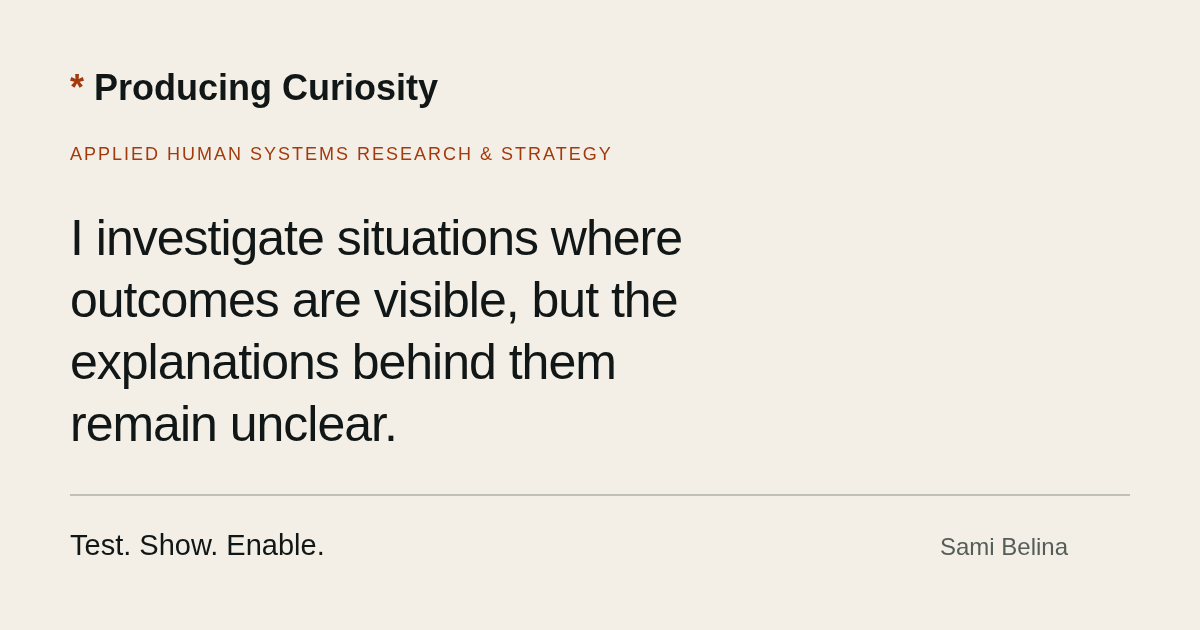
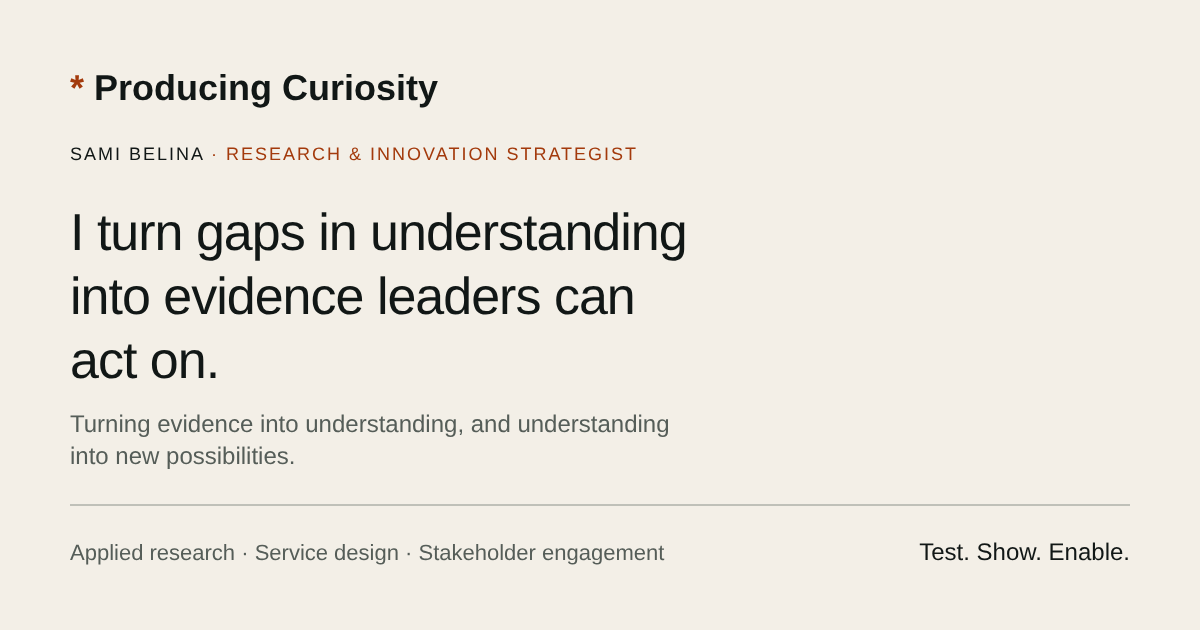
SEO: Person structured data, current social preview, shorter description
- Homepage JSON-LD becomes a graph: WebSite (author and publisher) plus
  a Person for Sami Belina with jobTitle "Research & Innovation
  Strategist", sameAs LinkedIn and knowsAbout the LinkedIn specialties
  plus research strategy, organizational effectiveness, innovation
  strategy and human systems research. No email or employer.
- Social preview (1200 × 630) redrawn with the current positioning:
  name and identity, the H1, the LinkedIn tagline and specialties,
  Test. Show. Enable. Alt text matches.
- Home description shortened from 180 to 148 characters so search
  results show it whole; a test keeps it within 155.
- Page audit: unique titles, one H1 per page, canonical on indexable
  pages, sitemap unchanged (four public pages); experiments and the
  empty collection remain noindex by design.
- docs/codex/SEO-SEM-AUDIT.md records the live check, the changes, and
  the owner's account steps (Search Console sitemap and indexing, Bing
  import, LinkedIn Post Inspector, optional Crawler Hints). SEM remains
  a proposed brief: no campaigns, spend or tracking.

Verified: build (85 files audited); check:deploy; npm test 779 passed /
0 failed / 11 skipped in Chromium, WebKit, Firefox and iPhone-emulated
WebKit.

Claude-Session: https://claude.ai/code/session_01NYEdYjHJJXk5SrJAuyr7gg

diff --git a/scripts/seo.ts b/scripts/seo.ts
@@ -1,10 +1,23 @@
 import { publicPath, publicBase } from '../src/public-path'
+import { practiceAreas, professionalIdentity, recruiterContact, tagline } from '../src/content/recruiter'
 /** Build-only metadata for the same public documents visitors can read. */
 export const siteOrigin = 'https://producingcuriosity.com'
 export const siteName = 'Producing Curiosity'
 export const homeTitle = 'Sami Belina — Research & Innovation Strategist'
-export const homeDescription = 'Sami Belina, research and innovation strategist: applied research, service design and stakeholder engagement. Turning evidence into understanding, and understanding into new possibilities.'
-const imageAlt = 'Producing Curiosity by Sami Belina. Applied human systems research and strategy. Test. Show. Enable.'
+/** Kept under ~155 characters so search results show it whole. */
+export const homeDescription = 'Sami Belina, research and innovation strategist: applied research, service design and stakeholder engagement that turns evidence into understanding.'
+const imageAlt = 'Producing Curiosity by Sami Belina, Research & Innovation Strategist. I turn gaps in understanding into evidence leaders can act on. Test. Show. Enable.'
+const personId = `${siteOrigin}/#sami-belina`
+/**
+ * Who the site is about, for search engines: name, the LinkedIn identity, the profile it
+ * links to, and the areas of work. Only public, owner-supplied facts; no email address (spam)
+ * and no employer, which stays unnamed in public copy.
+ */
+export const personSchema = {
+  '@type': 'Person', '@id': personId, name: 'Sami Belina', url: `${siteOrigin}/`,
+  jobTitle: professionalIdentity, description: tagline, sameAs: [recruiterContact.linkedin],
+  knowsAbout: [...practiceAreas, 'Research strategy', 'Organizational effectiveness', 'Innovation strategy', 'Human systems research'],
+}
 export const escapeAttribute = (text: string) => text.replaceAll('&', '&amp;').replaceAll('"', '&quot;').replaceAll('<', '&lt;').replaceAll('>', '&gt;')
 
 export function seoHead({ title, description, route, indexable, website = false }: { title: string; description: string; route?: string; indexable: boolean; website?: boolean }) {
@@ -20,7 +33,10 @@ export function seoHead({ title, description, route, indexable, website = false 
     meta('twitter:card', 'summary_large_image'), meta('twitter:title', title), meta('twitter:description', description), meta('twitter:image', `${siteOrigin}/social-preview.png`), meta('twitter:image:alt', imageAlt),
   ]
   if (website) {
-    const json = JSON.stringify({ '@context': 'https://schema.org', '@type': 'WebSite', '@id': `${siteOrigin}/#website`, name: siteName, url: `${siteOrigin}/`, description: homeDescription }).replaceAll('<', '\\u003c')
+    const json = JSON.stringify({ '@context': 'https://schema.org', '@graph': [
+      { '@type': 'WebSite', '@id': `${siteOrigin}/#website`, name: siteName, url: `${siteOrigin}/`, description: homeDescription, inLanguage: 'en', author: { '@id': personId }, publisher: { '@id': personId } },
+      personSchema,
+    ] }).replaceAll('<', '\\u003c')
     head.push(`<script type="application/ld+json">${json}</script>`)
   }
   return head.join('\n')

diff --git a/tests/professional-alignment.spec.ts b/tests/professional-alignment.spec.ts
@@ -1,7 +1,7 @@
 import { expect, test } from '@playwright/test'
 import { readFile } from 'node:fs/promises'
 import archive from '../content/build-archive.json' with { type: 'json' }
-import { homeTitle, homeDescription } from '../scripts/seo'
+import { homeTitle, homeDescription, personSchema, siteOrigin } from '../scripts/seo'
 import { practiceAreas, professionalIdentity, recruiterContact, tagline } from '../src/content/recruiter'
 import { representativeSummaries } from '../src/content/primary-evidence'
 
@@ -15,7 +15,7 @@ test('identity is consistent across the homepage, title and description', async 
   expect(homeTitle).toBe(`Sami Belina — ${professionalIdentity}`)
   expect(homeDescription.toLowerCase()).toContain('research and innovation strategist')
   for (const term of practiceAreas) expect(homeDescription).toContain(term.toLowerCase())
-  expect(homeDescription).toContain(tagline)
+  expect(homeDescription.length).toBeLessThanOrEqual(155)
   const home = await readFile('dist/index.html', 'utf8')
   expect(home).toContain(`<title>${homeTitle.replaceAll('&', '&amp;')}</title>`)
   expect(home).toContain(tagline)
@@ -97,4 +97,29 @@ test('seven qualified distinctions each state difference, question, connection, 
     // No distinction claims a case finding.
     await expect(page.locator('.pc-distinction-list')).not.toContainText(/\d+\s*%|SUS|NPS/)
   } finally { await context.close() }
+})
+
+test('homepage structured data names Sami as a Person linked to LinkedIn, and the site to its author', async () => {
+  const home = await readFile('dist/index.html', 'utf8')
+  const data = JSON.parse(home.match(/<script type="application\/ld\+json">(.*?)<\/script>/)![1])
+  const graph = data['@graph'] as Record<string, unknown>[]
+  const person = graph.find(node => node['@type'] === 'Person')!
+  const site = graph.find(node => node['@type'] === 'WebSite')!
+  expect(person).toEqual(personSchema)
+  expect(person).toMatchObject({ name: 'Sami Belina', jobTitle: professionalIdentity, sameAs: [recruiterContact.linkedin], url: `${siteOrigin}/` })
+  expect(site).toMatchObject({ author: { '@id': person['@id'] }, publisher: { '@id': person['@id'] } })
+  // Public, owner-supplied facts only: no email address or employer in machine-readable data.
+  expect(JSON.stringify(person)).not.toMatch(/@sbelina|mailto|employer|worksFor/i)
+  // Only the homepage carries it.
+  expect(await readFile('dist/practice/index.html', 'utf8')).not.toContain('"Person"')
+})
+
+test('the social preview carries the current positioning, not the 6 November lead', async () => {
+  const svg = await readFile('public/social-preview.svg', 'utf8')
+  for (const text of ['SAMI BELINA', 'RESEARCH &amp; INNOVATION STRATEGIST', 'I turn gaps in understanding', 'Test. Show. Enable.']) expect(svg).toContain(text)
+  expect(svg).not.toContain('I investigate situations where')
+  const home = await readFile('dist/index.html', 'utf8')
+  expect(home).toContain('content="Producing Curiosity by Sami Belina, Research &amp; Innovation Strategist.')
+  const png = await readFile('dist/social-preview.png')
+  expect([png.readUInt32BE(16), png.readUInt32BE(20)]).toEqual([1200, 630])
 })

diff --git a/tests/seo.spec.ts b/tests/seo.spec.ts
@@ -1,6 +1,6 @@
 import { test, expect } from '@playwright/test'
 import { readFile } from 'node:fs/promises'
-import { seoHead, homeTitle, homeDescription, siteOrigin } from '../scripts/seo'
+import { seoHead, homeTitle, homeDescription, siteOrigin, personSchema } from '../scripts/seo'
 import { projects } from '../src/data'
 
 test('metadata escapes content and rejects off-site canonical routes', () => {
@@ -36,7 +36,11 @@ test('production documents have one consistent metadata set and factual site sch
       expect(html).toContain(homeTitle.replaceAll('&', '&amp;'))
       expect(html).toContain(homeDescription)
       const schema = JSON.parse(html.match(/<script type="application\/ld\+json">([^<]+)<\/script>/)![1])
-      expect(schema).toEqual({ '@context': 'https://schema.org', '@type': 'WebSite', '@id': `${siteOrigin}/#website`, name: 'Producing Curiosity', url: `${siteOrigin}/`, description: homeDescription })
+      // The site and the person it is about (19 November): public, owner-supplied facts only.
+      expect(schema).toEqual({ '@context': 'https://schema.org', '@graph': [
+        { '@type': 'WebSite', '@id': `${siteOrigin}/#website`, name: 'Producing Curiosity', url: `${siteOrigin}/`, description: homeDescription, inLanguage: 'en', author: { '@id': personSchema['@id'] }, publisher: { '@id': personSchema['@id'] } },
+        personSchema,
+      ] })
     }
   }
 })

diff --git a/docs/codex/SEO-SEM-AUDIT.md b/docs/codex/SEO-SEM-AUDIT.md
@@ -80,3 +80,45 @@ Independent verified-HTTPS preview checks against [immutable version `f29915d6`]
 The reviewer also inspected the integration lead's logs:96 public tests and10 local private-workflow tests passed; a real local Worker restart preserved the synthetic D1 draft across fresh login; seven final affected footer/SEO checks and deployment packaging passed. These are technical checks. Remote CI and the final merged production response, including the production Worker hostname's new noindex header and the apex's absence of it, must still be verified by the integration lead. A documentation-only approval record does not change the approved runtime.
 
 No Search Console submission, verified live search-index status, keyword-volume data, Google Ads campaign, paid spend, tracking installation, ranking lift or conversion result is claimed. The SEM brief above remains proposed research requiring owner-authorized account data. This approval does not publish private manuscripts or establish a hosted CMS workflow, human accessibility conformance or reader-comprehension outcome.
+
+## On-page SEO completion — 19 November 2026 (review branch, not yet live)
+
+The owner asked to “do all the SEO”, including adding Person structured data. This work is on `claude/jolly-turing-noyo4q` (draft PR #17) and reaches search engines only after an approved merge and deployment.
+
+**Live state checked on 19 November.** Verified over HTTPS against producingcuriosity.com:
+
+- `robots.txt` allows search and lists the sitemap. Cloudflare-managed rules block AI-training crawlers but not Googlebot or Bingbot.
+- The sitemap lists `/`, `/practice/`, `/patterns/` and `/experiments/reveal-hidden-work/`.
+- The homepage has a canonical address, `index, follow`, Open Graph and Twitter tags, and WebSite structured data.
+- `workers.dev` hosts send `X-Robots-Tag: noindex`.
+- The social image loads.
+
+**Changed on the branch:**
+
+| Item | Before | After |
+| --- | --- | --- |
+| Home title | Sami Belina — Research Strategy, Organizational Effectiveness & Service Design | Sami Belina — Research & Innovation Strategist (matches LinkedIn) |
+| Home description | 180 characters (truncated in results), older role terms | 148 characters, LinkedIn specialties. Kept under about 155 characters so results show it whole (a test enforces this). |
+| Structured data | WebSite only | `@graph`: WebSite, with author and publisher set to a **Person** (Sami Belina, `jobTitle` Research & Innovation Strategist, `sameAs` LinkedIn, `knowsAbout` the LinkedIn specialties plus research strategy, organizational effectiveness, innovation strategy and human systems research). No email address or employer. |
+| Social preview (1200 × 630) | 6 November positioning and lead | Name and identity, the H1, the LinkedIn tagline and specialties, Test. Show. Enable. Alt text updated to match. |
+
+The earlier recruiting terms *research strategy* and *organizational effectiveness* now appear in the Person `knowsAbout` list, so they stay machine-readable without changing the visible LinkedIn-matched header.
+
+**Page audit on the built output:**
+
+- Every page has one `<title>`, one description, one H1, and a unique title.
+- Indexable pages: `/`, `/practice/`, `/patterns/` and `/experiments/reveal-hidden-work/`, each with a canonical address and in the sitemap.
+- Deliberately `noindex`: the Investigations collection (empty until a case is approved), the Observatory, Atlas, Je ne sais qu’a, Edge Case, the specimen, illustrations and the 404 page.
+
+**Owner steps after the merge is live.** These need the owner’s accounts; no agent has access:
+
+1. **Google Search Console:** submit `https://producingcuriosity.com/sitemap.xml` under Sitemaps. Then use URL Inspection on the homepage and choose Request indexing.
+2. **Bing Webmaster Tools:** sign in and import the site from Search Console. This also covers DuckDuckGo and other Bing-backed engines.
+3. **LinkedIn Post Inspector** (linkedin.com/post-inspector): inspect `https://producingcuriosity.com/` to refresh LinkedIn’s cached title and image. Do the same in any other platform’s share debugger.
+4. **Optional:** Cloudflare *Crawler Hints* (Caching → Configuration) notifies IndexNow-based engines when pages change.
+5. **After a few days:** record Search Console *Pages* (index coverage) and *Performance* (queries, impressions, clicks) with dates. Only then can visibility claims be made.
+
+**Not done, and why.**
+
+- No search-index status, ranking or traffic is claimed; there is no account access.
+- SEM remains the proposed brief above. No campaign, spend, tracking or keyword-volume data exists, and none should be created without the owner’s explicit approval and account access.
